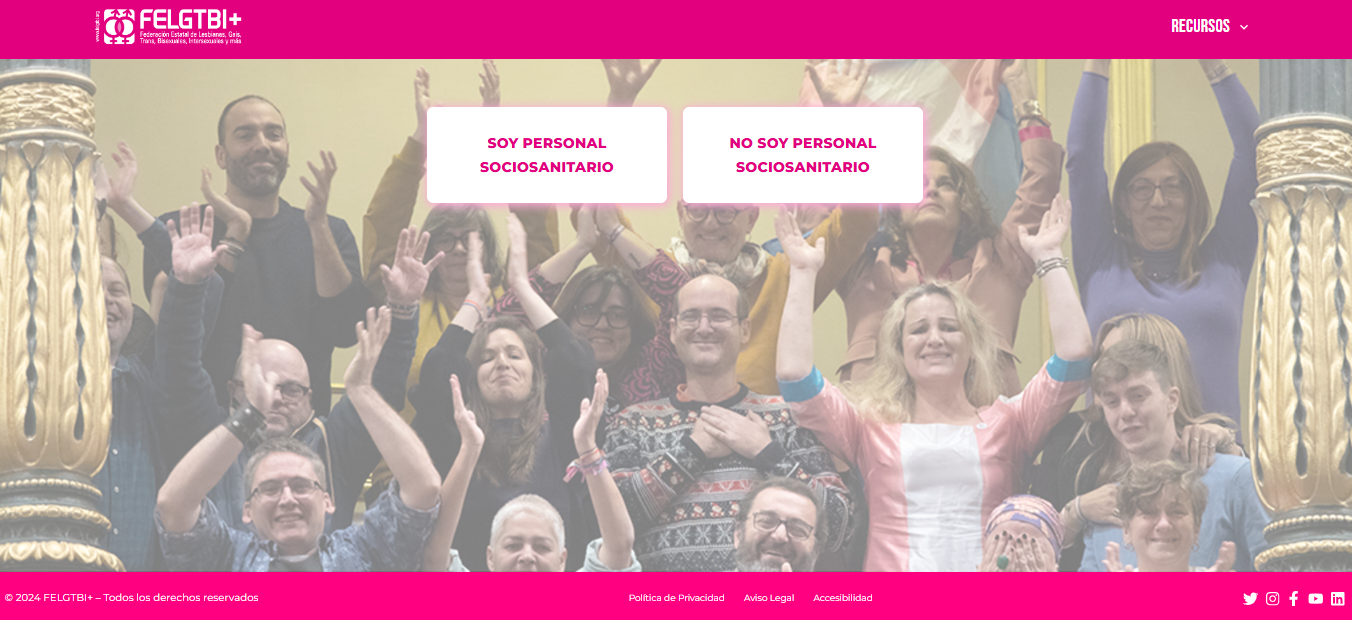
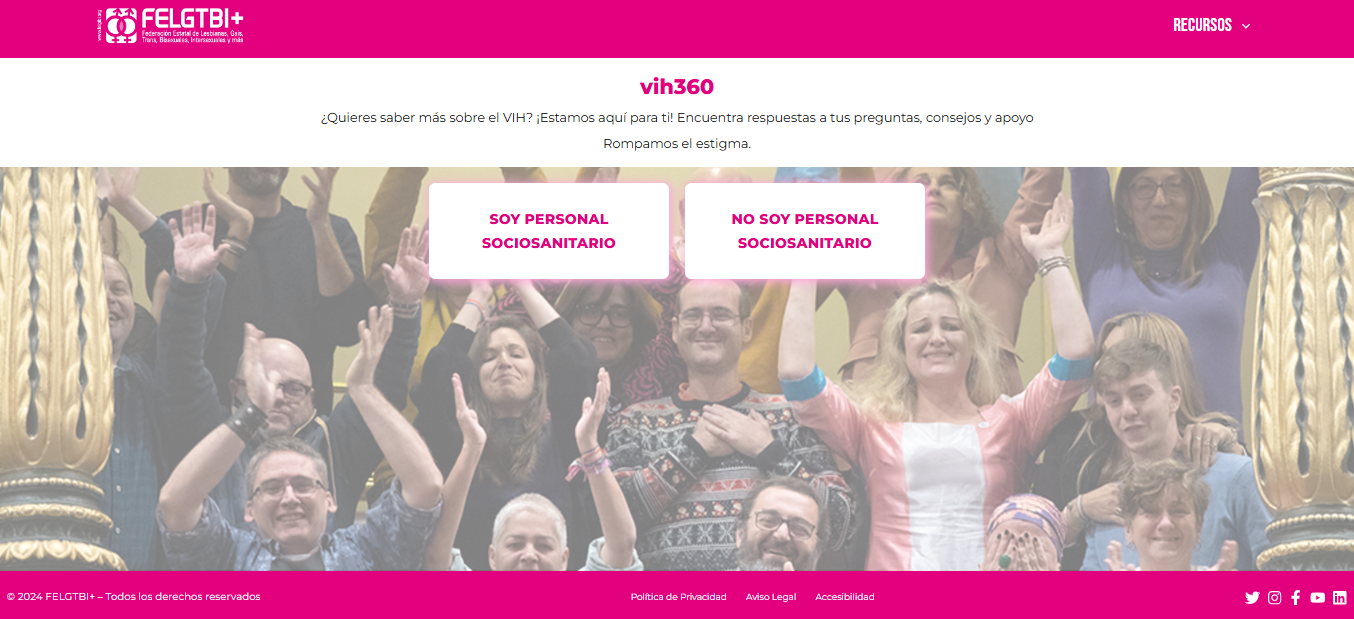
progreso

diff --git a/README.md b/README.md
@@ -1,7 +1,6 @@
 # Backend del chatbot vih360
- ## **Asistencia y orientación en materia de VIH y SIDA**
-![logo](Imagenes/logo.png)
-
+![web](Imagenes/interfaz_web.png)
+## **Asistencia y orientación en materia de vih y sida**
 ## **Descripción**
 
 ### **1. Datos y problemática**
@@ -17,6 +16,7 @@ El impacto del virus no se limita a su dimensión física; el **estigma social a
 
 Estos factores destacan la urgencia de ofrecer información personalizada y accesible que fomente la equidad en salud.
 
+![sociosanitario](Imagenes/diapositiva.png)
 ---
 
 ### **2. Planteamiento**
@@ -37,15 +37,31 @@ Desde una perspectiva alineada con la **FELGTBI+**, la salud debe abordarse de f
 
 ---
 
+### **3. Funcionamiento**
+![sociosanitario](Imagenes/no_sociosanitario.png)  
 
+La herramienta operará mediante un **árbol de decisión** interactivo:
+- **Preguntas predefinidas** que guían al usuario según su situación.
+- **Rutas personalizadas**:
+  - Información sobre **prevención**, **pruebas diagnósticas**, **manejo emocional**, y **recursos locales**.
+  - Ejemplo de rutas:
+    - Una persona que sospecha una exposición reciente al VIH.
+    - Un profesional sociosanitario que busca pautas de asesoramiento.
+- **Evitar cajas de texto libre**: Esto permite mantener una guía clara, estructurada y un acompañamiento cercano.
 
+![sociosanitario](Imagenes/chatbot_2.png)
 
+### **Adaptación de la información**
+La información será adaptada para ser:
+- Relevante y comprensible según el perfil del usuario.
+- Basada en evidencia científica y recomendaciones actualizadas.
+- Accediendo ala api de **Gemini**  
 
+![sociosanitario](Imagenes/gemini.png)  
 
+- Dando ubicaciones cercana de centros personalizados accediendo a la api de **googlemaps**.
 
-
-
-
+![sociosanitario](Imagenes/googlemaps.png)
 
 
 
@@ -66,9 +82,9 @@ La aplicación está dirigida a:
 - Comunidad general que desea información fiable y empática.
 
 Esta seria la interfaz principal 
-![web](Imagenes/interfaz_web.png)
 
-![sociosanitario](Imagenes/diapositva.png)
+
+
 
 ---
 
@@ -103,18 +119,20 @@ Esta seria la interfaz principal
    ```bash
    git clone https://github.com/usuario/repo.git
 
-# Tecnologias
-![sociosanitario](Imagenes/googlemaps.png)
-![sociosanitario](Imagenes/render.png)
-![sociosanitario](Imagenes/aws.png)
-![sociosanitario](Imagenes/gemini.png)
 
-participantes:
+
+### participantes:
 -Hugo
 -Ana
 -Nathan
 -Fran
 -Javier
+### Tecnologias
+
+![sociosanitario](Imagenes/googlemaps.png)
+![sociosanitario](Imagenes/render.png)
+![sociosanitario](Imagenes/aws.png)
+![sociosanitario](Imagenes/gemini.png)
 
 import requirements:
 fastapi==0.115.5
@@ -135,3 +153,6 @@ python-multipart==0.0.19
 
 ![sociosanitario](Imagenes/grafico_barchart.png)
 ![sociosanitario](Imagenes/barras_apiladas.png)
+
+## **Extructura del repositorio**
+![logo](Imagenes/logo.png)
